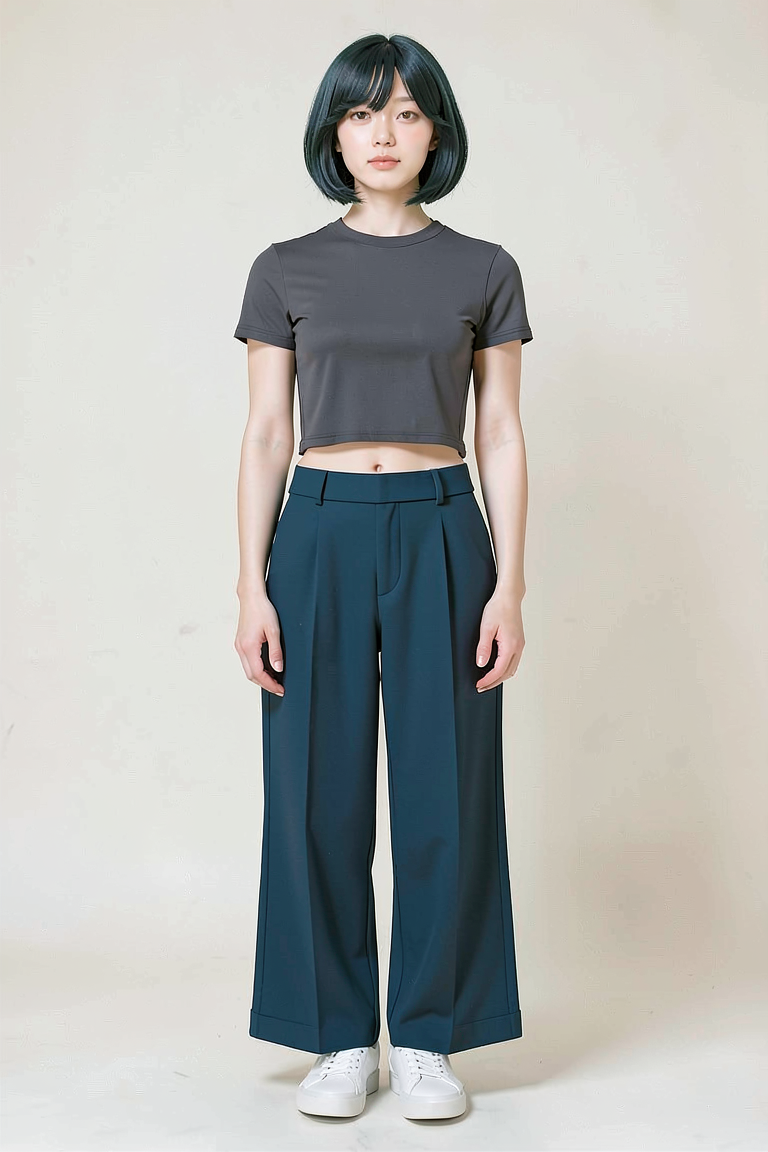
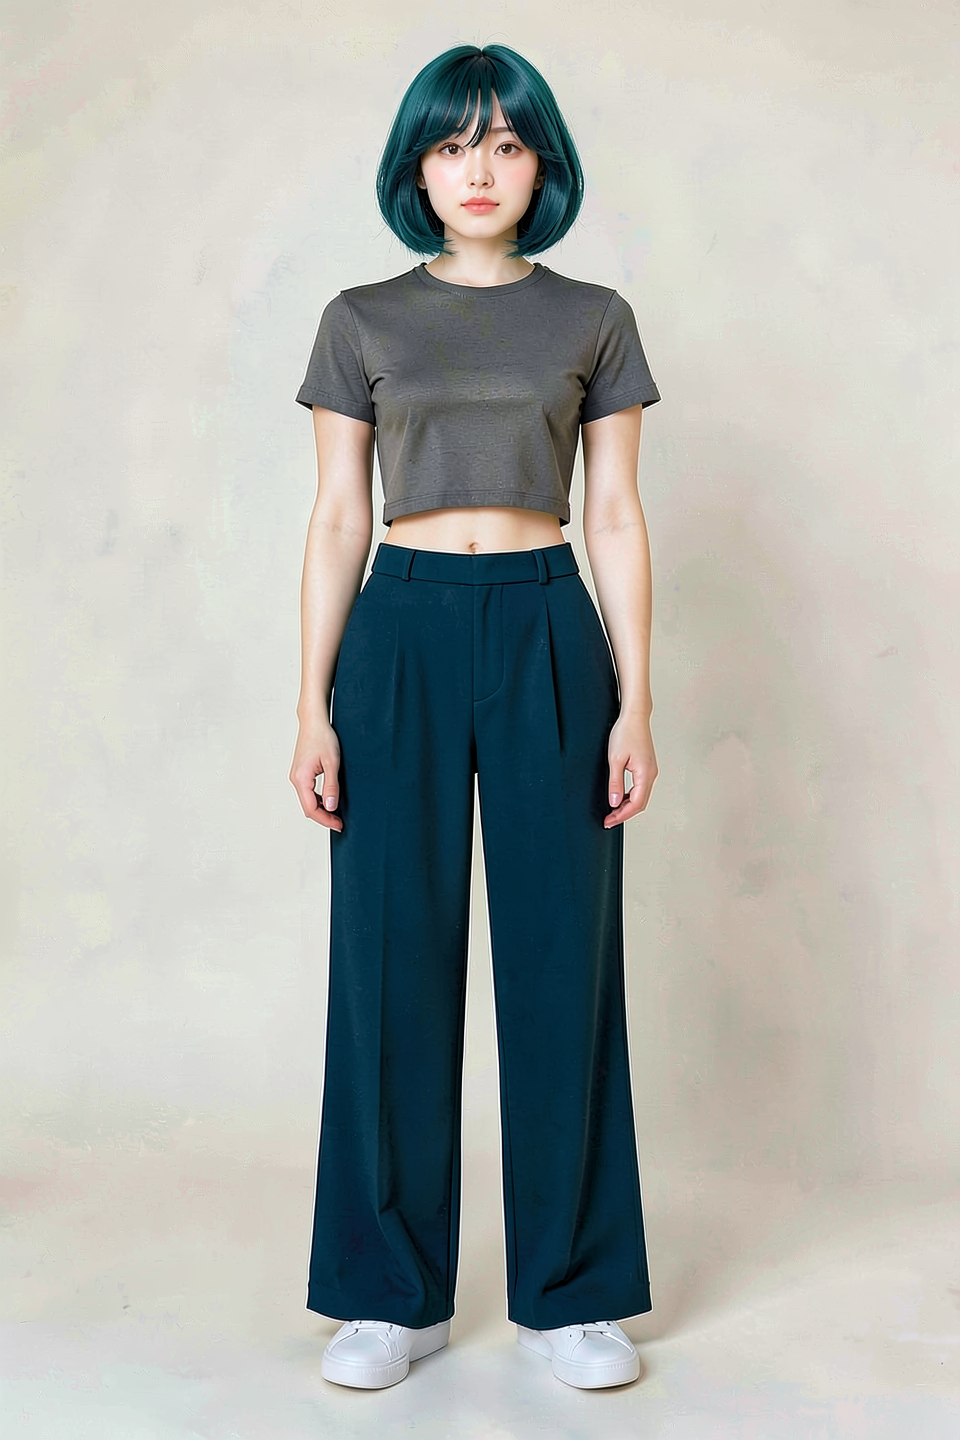
docs(p7-5.2): approve 960px fullbody front reference

Changed region(s): [[0.0, 0.0312, 0.7812, 1.0], [0.7188, 0.4688, 0.8125, 0.625], [0.7812, 0.875, 0.8125, 0.9062]]

diff --git a/docs/parts/part-07/chapter-05/section-02.md b/docs/parts/part-07/chapter-05/section-02.md
@@ -158,7 +158,7 @@ PYTORCH_CUDA_ALLOC_CONF=expandable_segments:True \
 | --- | --- | --- | --- | --- |
 | ![승인된 정면 전신 기준](../../../assets/part-07/chapter-05/p7-5-2-fullbody-front-reference.png) | ![승인된 전면 쿼터 전신 기준](../../../assets/part-07/chapter-05/p7-5-2-fullbody-front-quarter-reference.png) | ![승인된 좌측 측면 전신 기준](../../../assets/part-07/chapter-05/p7-5-2-fullbody-profile-left-reference.png) | ![승인된 우측 측면 전신 기준](../../../assets/part-07/chapter-05/p7-5-2-fullbody-profile-right-reference.png) | ![승인된 후면 전신 기준](../../../assets/part-07/chapter-05/p7-5-2-fullbody-rear-reference.png) |
 
-정면 신체비율 생성기와 턴어라운드 생성기는 분리합니다. 정면 생성기는 1단계 전신 생성(기본 `3 step`) 뒤 2단계 얼굴 아이덴티 보강(기본 `6 step`)을 적용해 정면 PNG와 검토용 중간 PNG를 만듭니다. 턴어라운드 생성기는 정면을 만들지 않으며, `--front-image`로 받은 승인·후보 정면 PNG만을 좌·우 쿼터·좌·우 측면·후면의 캐릭터·착장·비율·전신 프레이밍 앵커로 사용합니다. 정면과 다섯 후속 방향은 각각 다시 사람 검수합니다.
+정면 신체비율 생성기와 턴어라운드 생성기는 분리합니다. 정면 생성기는 1단계 전신 생성(기본 `3 step`) 뒤 2단계 얼굴 아이덴티 보강(기본 `6 step`)을 적용해 정면 PNG와 검토용 중간 PNG를 만듭니다. `seed=62294`의 `960×1440` 최종 PNG는 사람 승인해 위 정면 전신 안정 참조로 등록했습니다. 턴어라운드 생성기는 정면을 만들지 않으며, `--front-image`로 받은 승인·후보 정면 PNG만을 좌·우 쿼터·좌·우 측면·후면의 캐릭터·착장·비율·전신 프레이밍 앵커로 사용합니다. 정면과 다섯 후속 방향은 각각 다시 사람 검수합니다.
 
 | 새 승인 정면 turnaround 앵커 |
 | --- |

diff --git a/management/release-notes/sections/part-07/P7-5.2.md b/management/release-notes/sections/part-07/P7-5.2.md
@@ -5,6 +5,7 @@
 
 ### v2026.08.08
 
+- 960×1440 정면 전신 기준 승인 교체: `seed=62294`에서 전신 1단계 `3 step`과 얼굴 아이덴티 2단계 `6 step`을 거친 최종 PNG를 사람 승인해 `p7-5-2-fullbody-front-reference.png` 안정 자산으로 교체했다. 이는 정면 전신 생성기의 기준이며, 별도 1-stage turnaround 정면 앵커는 유지한다.
 - 좌·우 측면 전신 재승인: 정면 turnaround 앵커에서 생성한 좌·우 엄격 측면 후보를 각각 1차 `3 step`·2차 `3 step`으로 사람 검수해 승인했다. 화면 기준 방향, 가까운 쪽 팔 실루엣, 두 발의 분리를 확인한 PNG를 `p7-5-2-fullbody-profile-left-reference.png`와 `p7-5-2-fullbody-profile-right-reference.png` 안정 자산으로 등록하고, 방향을 구분하지 못하는 기존 단일 `p7-5-2-fullbody-profile-reference.png`는 교체했다.
 - 정면·방향 전신 생성 분리: `p7_5_2_generate_fullbody_front_reference.py`가 정면 신체비율 1단계(기본 `3 step`)와 얼굴 아이덴티 2단계(기본 `6 step`)를 전담하도록 추가했다. 턴어라운드 생성기는 `--front-image`를 필수 입력으로 받아 정면을 다시 만들지 않고 나머지 다섯 방향만 생성한다.
 - 2-stage 정면 turnaround 승인·단계별 산출물: 1단계 전신 생성(`3 step`)과 2단계 얼굴 아이덴티 보강(`6 step`)을 분리하고, 각 단계 PNG와 검토 JSON을 기록하도록 바꿨다. `seed=62294`의 최종 2단계 정면 PNG를 사람 승인해 `p7-5-2-fullbody-turnaround-front-reference.png` 안정 앵커로 대체했다. 1단계 PNG는 검토용 중간 산출물이며, 개별 2단계 실행에는 `--body-image`로 기존 1단계 PNG를 입력할 수 있다. 이 새 경로는 정면을 먼저 만들고 좌·우 쿼터·좌·우 측면·후면을 정면 PNG의 캐릭터·착장·비율·프레이밍 앵커에서 파생한다. 다섯 후속 방향은 아직 별도 사람 검수 전이다.
